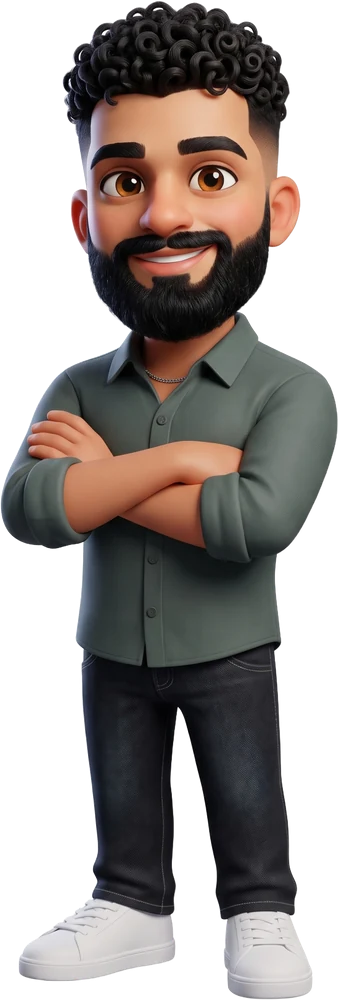
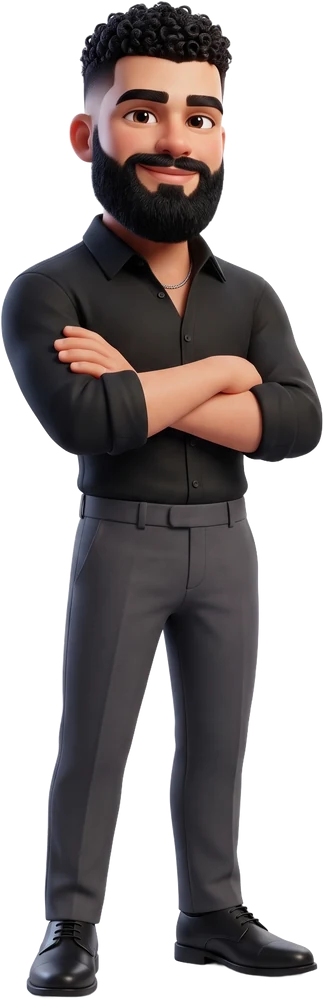
Learn page: Zain character v2 from his own photos (full beard, tighter curls, black collared shirt, dress pants, black shoes)
Element Zain-v2 built from four reference photos replaces the first pass, which read as generic.
All seven cutouts and the share image regenerated; alt text updated.

diff --git a/learn/index.html b/learn/index.html
@@ -323,7 +323,7 @@
         <span class="chip r hud" id="heroStyle">3D</span>
         <span class="bubble">hey, i know him.</span>
         <img class="buddy drip" src="../assets/drip2-idle.png" width="422" height="720" alt="Drip, a tall paper cup of coffee with dot eyes.">
-        <img class="fig" id="heroFig" src="art/zain-3d.webp" alt="A 3D character version of Zain: curly black hair, full beard, green shirt, arms crossed.">
+        <img class="fig" id="heroFig" src="art/zain-3d.webp" alt="A 3D character version of Zain: curly black hair, full beard, black shirt, arms crossed.">
         <img class="buddy capp" src="../assets/capp3-point.png" width="500" height="720" alt="Capp, a latte cup with round glasses, pointing up.">
       </div>
       <div class="xp">
